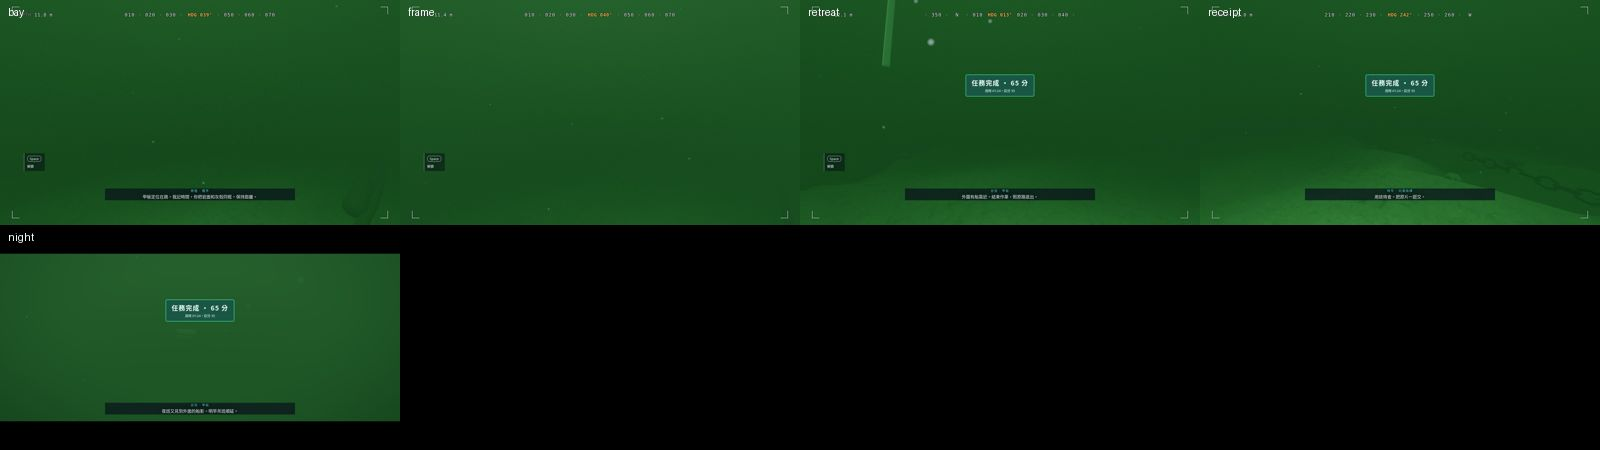
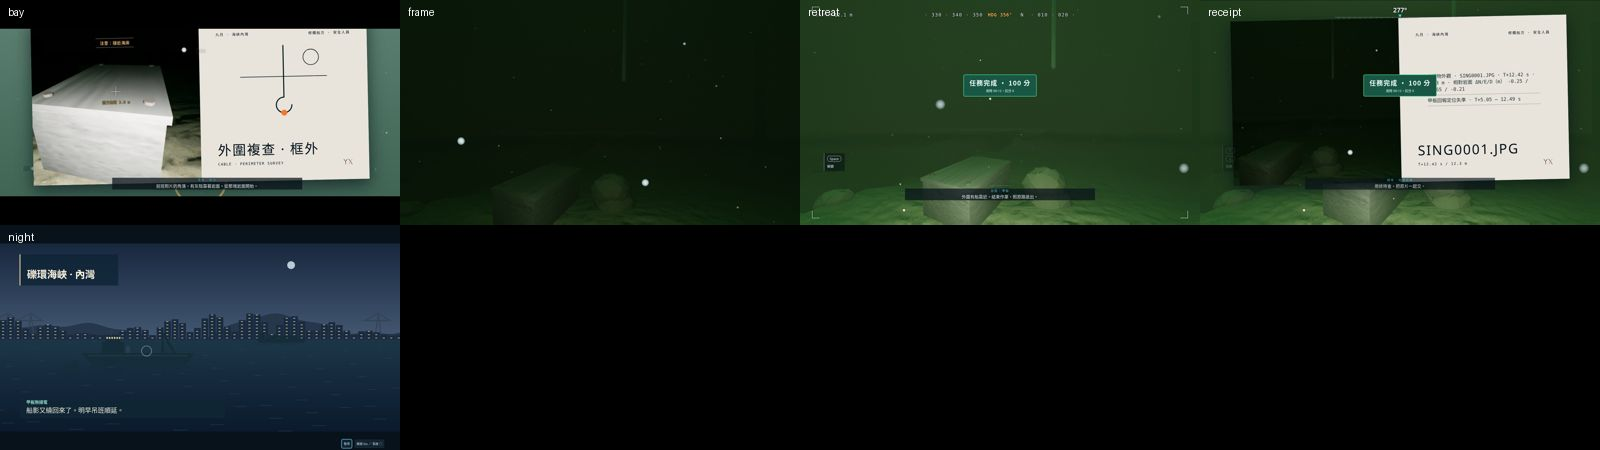
Capture both complete watches with the onboard shutter and touch controls

diff --git a/simulator/tools/browser_chapter4_smoke.py b/simulator/tools/browser_chapter4_smoke.py
@@ -18,8 +18,8 @@ FLIGHTS = {
 }
 # NED camera stations and subjects in the fictional worksite.
 STATIONS = {
-    'overview': ((-1.45, -.72, 12.73), (0, -.72, 12.89)),
-    'close': ((-1.4, .72, 12.62), (0, .72, 12.79)),
+    'overview': ((-1.85, -.72, 12.43), (0, -.72, 12.89)),
+    'close': ((-1.85, .72, 12.43), (0, .72, 12.79)),
     'haul': ((1, 2, 11.6), (2, 2.9, 11.7)),
     'frame': ((-.45, 2.35, 12.37), (1.3, 2.16, 12.78)),
     'retreat': ((-3.2, 2, 12), (-5, 2, 12)),
@@ -52,19 +52,25 @@ def fly(page, chapter):
                   chapter)
     page.wait_for_function('id=>window.__viewer.S.campaign.chapter === id', arg=chapter, timeout=timeout(90000))
     frames = []
-    held = set()
-    last_press = 0
+    previous_heading = None
+    last_press = -10
+    next_trace = 0
+    channels = page.evaluate("""async () => {
+        const {axisChannel} = await import('/input/bindings.js');
+        const {currentOperationMode} = await import('/input/keyboard_layout.js');
+        return Object.fromEntries(['surge','sway','yaw','heave'].map(axis => [axis, axisChannel(axis, currentOperationMode())]));
+    }""")
     photo_beats = {"frame": "housing", "overview": "shore_end", "close": "sea_end"}
     deadline = time.monotonic() + timeout(420000) / 1000
     while time.monotonic() < deadline:
         state = page.evaluate("""() => {const s=window.__viewer.S;
-          return {beat:s.campaign.node?.id,status:s.campaign.status,pos:s.pos,yaw:s.euler[2],locked:s.locked,
+          return {beat:s.campaign.node?.id,status:s.campaign.status,t:s.t,pos:s.pos,vel:s.vel,yaw:s.euler[2],locked:s.locked,
             light:s.rc.right_switch,report:s.repair_report};}""")
         if state['status'] == 'completed':
             break
         beat = state['beat']
         if beat not in [name for _, name in frames]:
-            print(chapter, beat, state['pos'], flush=True)
+            print(chapter, beat, state['pos'], state['report'], flush=True)
             path = out / (beat + '.jpg')
             if beat in ('watch', 'bay', 'crosscheck') or (chapter == 'c4_frame' and beat == 'receipt'):
                 page.locator(f'[data-beat="{beat}"] .cable-work-order').wait_for()
@@ -76,38 +82,50 @@ def fly(page, chapter):
             elif beat not in photo_beats:
                 capture(page, path)
             frames.append((path, beat))
-        want = set()
+        sticks = dict(surge=0., sway=0., yaw=0., heave=0.)
         tap = None
         if beat in STATIONS:
             station, subject = STATIONS[beat]
             x, y, z = state['pos']
-            travelling = math.hypot(station[0]-x, station[1]-y) > .65
-            n, e, _ = station if travelling else subject
-            error = (math.degrees(math.atan2(e-y, n-x)) - state['yaw'] + 540) % 360 - 180
+            north, east = station[0] - x, station[1] - y
+            yaw = math.radians(state['yaw'])
+            forward = north * math.cos(yaw) + east * math.sin(yaw)
+            right = -north * math.sin(yaw) + east * math.cos(yaw)
+            u, v, w = state['vel']
+            bearing = math.degrees(math.atan2(subject[1] - y, subject[0] - x))
+            error = (bearing - state['yaw'] + 540) % 360 - 180
             if state['locked']:
                 tap = 'lock'
             elif not state['light']:
                 tap = 'light'
             else:
-                if abs(error) > 7:
-                    want.add(keys['yaw'][int(error < 0)])
-                if travelling and abs(error) < 20:
-                    want.add(keys['surge'][0])
-                if abs(z-station[2]) > .15:
-                    want.add(keys['heave'][int(station[2] > z)])
-                if not travelling and abs(error) < 13 and beat in ('frame', 'overview', 'close'):
+                yaw_rate = 0
+                if previous_heading and state['t'] > previous_heading[0]:
+                    turn = (state['yaw'] - previous_heading[1] + 540) % 360 - 180
+                    yaw_rate = turn / (state['t'] - previous_heading[0])
+                sticks.update(surge=.55 * forward - 1.2 * u, sway=.6 * right - 1.3 * v,
+                              yaw=(error - .65 * yaw_rate) / 53, heave=.85 * (z - station[2]) + 1.3 * w)
+                if (beat in photo_beats and math.hypot(north, east) < .72
+                        and abs(z - station[2]) < .3 and abs(error) < 14):
                     tap = 'photo'
-        for key in held - want:
-            page.keyboard.up(key)
-        for key in want - held:
-            page.keyboard.down(key)
-        held = want
-        if tap and time.monotonic() - last_press > .8:
-            page.keyboard.press(keys[tap])
-            last_press = time.monotonic()
-        page.wait_for_timeout(100)
-    for key in held:
-        page.keyboard.up(key)
+        if previous_heading is None or state['t'] > previous_heading[0]:
+            previous_heading = (state['t'], state['yaw'])
+        if beat in STATIONS and state['t'] >= next_trace:
+            next_trace = state['t'] + 10
+            print('pilot', beat, state['t'], state['pos'], state['yaw'], tap, flush=True)
+        # The published viewer harness exposes the touch joystick. Its channels feed the
+        # same input curve, websocket heartbeat, mixer and thrusters as the physical pad.
+        axes = {channels[axis]['channel']: channels[axis]['sign'] * max(-.65, min(.65, value))
+                for axis, value in sticks.items()}
+        page.evaluate('axes => Object.assign(window.__viewer.touch, axes)', axes)
+        if tap and state['t'] - last_press > 1:
+            if tap == 'photo':
+                page.evaluate('() => window.__viewer.takePhoto()')
+            else:
+                page.keyboard.press(keys[tap])
+            last_press = state['t']
+        page.wait_for_timeout(80)
+    page.evaluate('() => { const touch = window.__viewer.touch; for (const key in touch) touch[key] = 0; }')
     assert state['status'] == 'completed', state
     assert [name for _, name in frames] == expected.split(), frames
     print(chapter, state['report'], flush=True)
